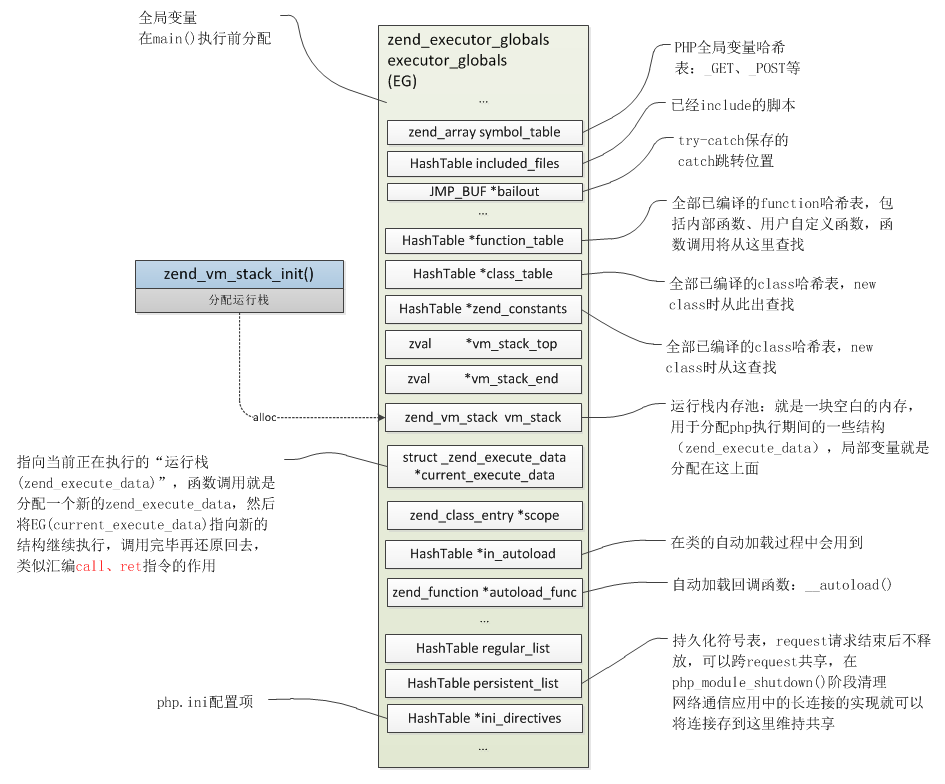
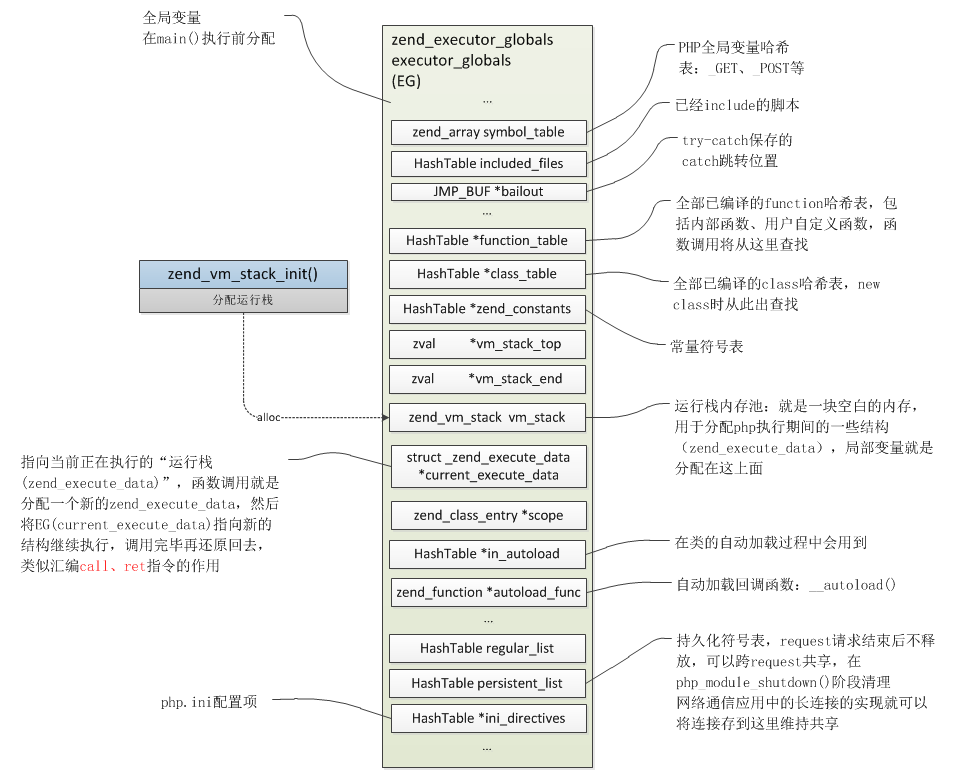
*更新原创

diff --git a/7/func.md b/7/func.md
@@ -67,7 +67,7 @@ const zend_function_entry mytest_functions[] = {
 #define ZEND_FENTRY(zend_name, name, arg_info, flags)   { #zend_name, name, arg_info, (uint32_t) (sizeof(arg_info)/sizeof(struct _zend_internal_arg_info)-1), flags },
 #define ZEND_FN(name) zif_##name
 ```
-最后将`zend_module_entry->functions`设置为`timeout_functions`即可：
+最后将`zend_module_entry->functions`设置为`mytest_functions`即可：
 ```c
 zend_module_entry mytest_module_entry = {
     STANDARD_MODULE_HEADER,
@@ -123,7 +123,7 @@ PHP_FUNCTION(my_func_1)
 
 ![](../img/internal_func_param.png)
 
-注意：解析时除了整形、浮点型、布尔型是直接硬拷贝value外，其它解析到的变量只能是指针，arr为zend_execute_data上param_1的地址，即：`zval *arr = &param_1`，所以图中arr、param_1之间用的不是箭头指向，也就是说参数始终存储在zend_execute_data上，解析获取的是这些参数的地址。`zend_parse_parameters()`调用了`zend_parse_va_args()`进行处理，简单看下解析过程：
+注意：解析时除了整形、浮点型、布尔型是直接硬拷贝value外，其它解析到的变量只能是指针，arr为zend_execute_data上param_1的地址，即：`zval *arr = &param_1`，也就是说参数始终存储在zend_execute_data上，解析获取的是这些参数的地址。`zend_parse_parameters()`调用了`zend_parse_va_args()`进行处理，简单看下解析过程：
 ```c
 //va就是定义的要解析到的各个变量的地址
 static int zend_parse_va_args(int num_args, const char *type_spec, va_list *va, int flags)
@@ -229,7 +229,7 @@ static zend_always_inline int zend_parse_arg_long(zval *arg, zend_long *dest, ze
     return 1;
 }
 ```
-> __Note:__ "l"与"L"的区别在于，当传参不是整形且转为整形后超过了整形的大小范围时，"L"将值调整为整形的最大或最小值，而"l"将报错，比如传的参数是字符串"9223372036854775808"，转整形后超过了unsigned int64的最大值：0xFFFFFFFFFFFFFFFF，"L"将解析为0xFFFFFFFFFFFFFFFF。
+> __Note:__ "l"与"L"的区别在于，当传参不是整形且转为整形后超过了整形的大小范围时，"L"将值调整为整形的最大或最小值，而"l"将报错，比如传的参数是字符串"9223372036854775808"(0x7FFFFFFFFFFFFFFF + 1)，转整形后超过了有符号int64的最大值：0x7FFFFFFFFFFFFFFF，所以如果是"L"将解析为0x7FFFFFFFFFFFFFFF。
 
 #### 7.6.2.2 布尔型：b
 通过"b"标识符表示将传入的参数解析为布尔型，解析到的变量必须是zend_bool：
@@ -355,7 +355,7 @@ callable指函数或成员方法，如果参数是函数名称字符串、array(
 zend_fcall_info         callable; //注意，这两个结构不能是指针
 zend_fcall_info_cache   call_cache;
 
-if(zend_parse_parameters(
+if(zend_parse_parameters(ZEND_NUM_ARGS(), "f", &callable, &call_cache) == FAILURE){
     RETURN_FALSE;
 }
 ```
@@ -376,8 +376,25 @@ my_func_1(array($object, 'method'));
 
 #### 7.6.2.11 其它标识符
 除了上面介绍的这些解析符号以外，还有几个有特殊用法的标识符："|"、"+"、"*"，它们并不是用来表示某种数据类型的。
-* __|：__ 表示此后的参数为可选参数，可以不传，比如解析规则为："al|b"，则可以传2个或3个参数，如果是："alb"，则必须传3个，否则将报错；
-* __+/*：__ 用于可变参数，注意这里与PHP函数...的用法不太一样，PHP中可以把函数最后一个参数前加...，表示调用时可以传多个参数，这些参数都会插入...参数的数组中，"*/+"也表示这个参数是可变的，但内核中只能接收一个值，即使传了多个后面那些也解析不到，"*"、"+"的区别在于"*"表示可以不传可变参数，而"+"表示可变参数至少有一个。
+* __|：__ 表示此后的参数为可选参数，可以不传，比如解析规则为："al|b"，则可以传2个或3个参数，如果是："alb"，则必须传3个，否则将报错
+* __+、* ：__ 用于可变参数，`+、*`的区别在于 * 表示可以不传可变参数，而 + 表示可变参数至少有一个。可变参数将被解析到zval数组，可以通过一个整形参数，用于获取具体的数量，例如：
+```c
+PHP_FUNCTION(my_func_1)
+{
+    zval *args;
+    int argc;
+    
+    if (zend_parse_parameters(ZEND_NUM_ARGS(), "+", &args, &argc) == FAILURE) {
+        return;
+    } 
+    //...
+}
+```
+argc获取的就是可变参数的数量，args为参数数组，指向第一个参数，可以通过args[i]获取其它参数，比如这样传参：
+```php
+my_func_1(array(), 1, false, "ddd");
+```
+那么传入的4个参数就可以在解析后通过args[0]、args[1]、args[2]、args[3]获取。
 
 ### 7.6.3 引用传参
 上一节介绍了如何在内部函数中解析参数，这里还有一种情况没有讲到，那就是引用传参：
@@ -497,7 +514,7 @@ echo $a;
 
 ### 7.6.4 函数返回值
 调用内部函数时其返回值指针作为参数传入，这个参数为`zval *return_value`，如果函数有返回值直接设置此指针即可，需要特别注意的是设置返回值时需要增加其引用计数，举个例子来看：
-    ```c
+```c
 PHP_FUNCTION(my_func_1)
 {
     zval    *arr;
@@ -510,8 +527,6 @@ PHP_FUNCTION(my_func_1)
     Z_ADDREF_P(arr);
 
     //设置返回值为数组：
-    //return_value->u1.type = IS_ARRAY; 
-    //return_value->value->arr = arr->value->arr;
     ZVAL_ARR(return_value, Z_ARR_P(arr));
 } 
 ```

diff --git a/8/namespace.md b/8/namespace.md
@@ -259,9 +259,9 @@ typedef struct _zend_file_context {
 ```
 简单总结下use的几种不同用法：
 * __a.导入命名空间:__ 导入的名称保存在FC(imports)中，编译使用的语句时搜索此符号表进行补全
-* __b.导入类:__ 导入的名称保存在FC(imports)中，与a不同的时如果不会根据"\"切割后的最后一节检索，而是直接使用类名查找
+* __b.导入类:__ 导入的名称保存在FC(imports)中，与a不同的是不会根据"\"切割后的最后一节检索，而是直接使用类名查找
 * __c.导入函数:__ 通过`use function`导入到FC(imports_function)，补全时先查找FC(imports_function)，如果没有找到则继续按照a的情况处理
-* __d.导入常量:__ 通过`use const`导入到FC(imports_const)，不全是先查找FC(imports_const)，如果没有找到则继续按照a的情况处理
+* __d.导入常量:__ 通过`use const`导入到FC(imports_const)，补全时先查找FC(imports_const)，如果没有找到则继续按照a的情况处理
 
 ```php
 use aa\bb;                  //导入namespace
@@ -427,7 +427,7 @@ zend_string *zend_resolve_non_class_name(
     return zend_prefix_with_ns(name);
 }
 ```
-可以看到，函数与常量的的补全逻辑只是优先用原始名称去FC(imports_function)或FC(imports_const)查找，如果没有找到再去FC(imports)中匹配。如果我们这样导入了一个函数：`use aa\bb\my_func;`，编译`my_func()`会在FC(imports_function)中根据"my_func"找到"aa\bb\my_func"，从而使用完整的这个名称。
+可以看到，函数与常量的的补全逻辑只是优先用原始名称去FC(imports_function)或FC(imports_const)查找，如果没有找到再去FC(imports)中匹配。如果我们这样导入了一个函数：`use function aa\bb\my_func;`，编译`my_func()`会在FC(imports_function)中根据"my_func"找到"aa\bb\my_func"，从而使用完整的这个名称。
 
 ### 8.3.3 动态用法
 前面介绍的这些命名空间的使用都是名称为CONST类型的情况，所有的处理都是在编译环节完成的，PHP是动态语言，能否动态使用命名空间呢？举个例子：

diff --git a/README.md b/README.md
@@ -1,14 +1,19 @@
-# 非原创
-#转自 https://github.com/pangudashu/php7-internal
-
 # PHP7内核剖析
 ````
+原创内容，转载请注明出处~
+
 代码版本：php-7.0.12
 ````
 ## 反馈
 [交流&吐槽](https://github.com/pangudashu/php7-internal/issues/3)  [错误反馈](https://github.com/pangudashu/php7-internal/issues/2)
 
-![](img/my_wx2.png)
+## 纸质版
+<div align="center">
+    <img src="img/book.jpg" height="280" >
+</div>
+
+[京东](https://item.jd.com/12267210.html)
+[当当](http://product.dangdang.com/25185400.html)
 
 ## 目录：
 * 第1章 PHP基本架构
@@ -38,6 +43,7 @@
       * <a href="3/zend_executor.md#331-数据结构">3.3.1 基本结构</a>
       * <a href="3/zend_executor.md#332-执行流程">3.3.2 执行流程</a>
       * <a href="3/zend_executor.md#333-函数的执行流程">3.3.3 函数的执行流程</a>
+      * [3.3.4 全局execute_data和opline](3/zend_global_register.md)
    * 3.4 面向对象实现
       * [3.4.1 类](3/zend_class.md)
       * [3.4.2 对象](3/zend_object.md)
@@ -46,6 +52,10 @@
       * [3.4.5 魔术方法](3/zend_magic_method.md)
       * [3.4.6 类的自动加载](3/zend_autoload.md)
    * [3.5 运行时缓存](3/zend_runtime_cache.md)
+   * 3.6 Opcache
+      * 3.6.1 opcode缓存
+      * 3.6.2 opcode优化
+      * 3.6.3 JIT
 * 第4章 PHP基础语法实现
    * [4.1 类型转换](4/type.md)
    * [4.2 选择结构](4/if.md)
@@ -86,11 +96,11 @@
       * [7.7.6 数组操作](7/var.md)
    * [7.8 常量](7/constant.md)
    * 7.9 面向对象
-      7.9.1 内部类注册
-      7.9.2 定义成员属性
-      7.9.3 定义成员方法
-      7.9.4 定义常量
-      7.9.5 类的实例化
+      * 7.9.1 内部类注册
+      * 7.9.2 定义成员属性
+      * 7.9.3 定义成员方法
+      * 7.9.4 定义常量
+      * 7.9.5 类的实例化
    * 7.10 资源类型
    * 7.11 经典扩展解析
       * 7.8.1 Yaf
@@ -107,4 +117,5 @@
  
 ## 附录
    * [附录1：break/continue按标签中断语法实现](try/break.md)
+   * 附录2：defer推迟函数调用语法的实现
 

diff --git a/4/break.md b/4/break.md
@@ -19,7 +19,15 @@ typedef struct _zend_brk_cont_element {
 ```
 cont记录的是当前循环判断条件opcode起始位置，brk记录的是当前循环结束的位置，parent记录的是父层循环`zend_brk_cont_element`结构的存储位置，也就是说多层嵌套循环会生成一个`zend_brk_cont_element`的链表，每层循环编译结束时更新自己的`zend_brk_cont_element`结构，所以break、continue的处理过程实际就是根据跳出的层级索引到那一层的`zend_brk_cont_element`结构，然后得到它的cont、brk进行相应的opcode跳转。
 
-各循环的`zend_brk_cont_element`结构保存在`zend_op_array->brk_cont_array`数组中，实际这个数组在编译前就已经分配好了，编译各循环时依次申请一个`zend_brk_cont_element`，`zend_op_array->last_brk_cont`记录此数组第一个可用位置，每申请一个元素last_brk_cont就相应的增加1，parent记录的就是父层循环在`zend_op_array->brk_cont_array`中的位置。
+各循环的`zend_brk_cont_element`结构保存在`zend_op_array->brk_cont_array`数组中，编译各循环时依次申请一个`zend_brk_cont_element`，`zend_op_array->last_brk_cont`记录此数组第一个可用位置，每申请一个元素last_brk_cont就相应的增加1，然后将数组扩容，parent记录的就是父层循环结构在该数组中的存储位置。
+```c
+zend_brk_cont_element *get_next_brk_cont_element(zend_op_array *op_array)
+{
+    op_array->last_brk_cont++;
+    op_array->brk_cont_array = erealloc(op_array->brk_cont_array, sizeof(zend_brk_cont_element)*op_array->last_brk_cont);
+    return &op_array->brk_cont_array[op_array->last_brk_cont-1];
+}
+```
 
 示例：
 ```php

diff --git a/4/loop.md b/4/loop.md
@@ -241,7 +241,7 @@ foreach($arr as $k=>$v){
 
 了解了foreach的实现、运行机制我们再回头看下其编译过程：
 
-* __(1)__ 编译"拷贝"数组/对象操作的opcode：`ZEND_FE_RESET_R`，如果value是引用则是`ZEND_FE_RESET_RW`，执行时如果发现数组或对象属性为空则直接跳出遍历，所以这条opcode还需要知道跳出的位置，这个位置需要编译完foreach以后才能确定；
+* __(1)__ 编译拷贝数组、对象操作的指令：ZEND_FE_RESET_R，如果value是引用则是ZEND_FE_RESET_RW。执行时如果发现遍历的变量不是数组、对象，则抛出一个warning，然后跳出循环，所以这条指令还需要知道跳出的位置，这个位置需要编译完foreach以后才能确定；
 * __(2)__ 编译fetch数组/对象当前单元key、value的opcode：`ZEND_FE_FETCH_R`，如果是引用则是`ZEND_FE_FETCH_RW`，此opcode还需要知道当遍历已经到达数组末尾时跳出遍历的位置，与步骤(1)的opcode相同,另外还有一个关键操作，前面已经说过遍历的key、value实际就是普通的局部变量，它们的内存存储位置正是在这一步分配确定的，分配过程与普通局部变量的过程完全相同，如果value不是一个CV变量(比如：foreach($arr as $v["xx"]){...})则还会编译其它操作的opcode；
 * __(3)__ 如果foreach定义了key则编译一条赋值opcode，此操作是对key进行赋值；
 * __(4)__ 编译循环体statement；

diff --git a/2/global_var.md b/2/global_var.md
@@ -1,7 +1,5 @@
 ## 2.4 全局变量
-PHP中在函数、类之外直接定义的变量可以在函数、类成员方法中通过global关键词引入使用，这些变量称为：全局变量。
-
-这些直接在PHP中定义的变量(包括include、require文件中的)相对于函数、类方法而言它们是全局变量，但是对自身执行域zend_execute_data而言它们是普通的局部变量，自身执行时它们与普通变量的读写方式完全相同。
+PHP中把定义在函数、类之外的变量称之为全局变量，也就是定义在主脚本中的变量，这些变量可以在函数、成员方法中通过global关键字引入使用。
 
 ```php
 function test() {
@@ -64,7 +62,7 @@ global $id; // 相当于：$id = & EG(symbol_table)["id"];
 ![](../img/zend_global_ref.png)
 
 ### 2.4.3 超全局变量
-全部变量除了通过global引入外还有一类特殊的类型，它们不需要使用global引入而可以直接使用，这些全局变量称为：超全局变量。
+全局变量除了通过global引入外还有一类特殊的类型，它们不需要使用global引入而可以直接使用，这些全局变量称为：超全局变量。
 
 超全局变量实际是PHP内核定义的一些全局变量：$GLOBALS、$_SERVER、$_REQUEST、$_POST、$_GET、$_FILES、$_ENV、$_COOKIE、$_SESSION、argv、argc。
 

diff --git a/7/implement.md b/7/implement.md
@@ -1,5 +1,5 @@
 ## 7.2 扩展的实现原理
-PHP中扩展通过`zend_module_entry`这个结构来表示，此结构定义了扩展的全部信息：扩展名、扩展版本、扩展提供的函数列表以及PHP四个执行阶段的hook函数等，每一个扩展都需要定义一个此结构的变量，而且这个变量的名称格式必须是：`{mudule_name}_module_entry`，内核正是通过这个结构获取到扩展提供的功能的。
+PHP中扩展通过`zend_module_entry`这个结构来表示，此结构定义了扩展的全部信息：扩展名、扩展版本、扩展提供的函数列表以及PHP四个执行阶段的hook函数等，每一个扩展都需要定义一个此结构的变量，而且这个变量的名称格式必须是：`{module_name}_module_entry`，内核正是通过这个结构获取到扩展提供的功能的。
 
 扩展可以在编译PHP时一起编译(静态编译)，也可以单独编译为动态库，动态库需要加入到php.ini配置中去，然后在`php_module_startup()`阶段把这些动态库加载到PHP中：
 ```c

diff --git a/3/zend_class.md b/3/zend_class.md
@@ -416,7 +416,7 @@ void zend_compile_class_const_decl(zend_ast *ast)
     zend_class_entry *ce = CG(active_class_entry);
     uint32_t i;
 
-    for (i = 0; i < list->children; ++i) { //不清楚这个地方为什么要用list，试了几个例子这个节点都只有一个child，即for只循环一次
+    for (i = 0; i < list->children; ++i) { //const声明了多个常量，遍历编译每个子节点
         zend_ast *const_ast = list->child[i];
         zend_ast *name_ast = const_ast->child[0]; //常量名节点
         zend_ast *value_ast = const_ast->child[1];//常量值节点
@@ -446,7 +446,6 @@ void zend_compile_prop_decl(zend_ast *ast)
     zend_class_entry *ce = CG(active_class_entry);
     uint32_t i, children = list->children;
 
-    //也不清楚这里为啥用循环，测试的情况child只有一个
     for (i = 0; i < children; ++i) {
         zend_ast *prop_ast = list->child[i]; //这个节点类型为：ZEND_AST_PROP_ELEM
         zend_ast *name_ast = prop_ast->child[0]; //属性名节点

diff --git a/2/zval.md b/2/zval.md
@@ -278,7 +278,7 @@ $b[] = 3;
 
 ![zval_sep](../img/zval_sep.png)
 
-不是所有类型都可以copy的，比如对象、资源，实时上只有string、array两种支持，与引用计数相同，也是通过`zval.u1.type_flag`标识value是否可复制的：
+不是所有类型都可以copy的，比如对象、资源，事实上只有string、array两种支持，与引用计数相同，也是通过`zval.u1.type_flag`标识value是否可复制的：
 ```c
 #define IS_TYPE_COPYABLE         (1<<4)
 ```

diff --git a/2/zend_constant.md b/2/zend_constant.md
@@ -8,7 +8,7 @@ PHP中的常量通过`define()`函数定义：
 define('CONST_VAR_1', 1234);
 ```
 ### 2.5.1 常量的存储
-在内核中常量存储在`EG(zend_constant)`哈希表中，访问时也是根据常量名直接到哈希表中查找，其实现比较简单。
+在内核中常量存储在`EG(zend_constants)`哈希表中，访问时也是根据常量名直接到哈希表中查找，其实现比较简单。
 
 常量的数据结构：
 ```c

diff --git a/2/zend_ht.md b/2/zend_ht.md
@@ -61,6 +61,8 @@ unset($arr["c"]);
 
 ![](../img/zend_hash_1.png)
 
+> 图中Bucket的zval.u2.next默认值应该为-1，不是0
+
 ### 2.2.2 映射函数
 映射函数(即：散列函数)是散列表的关键部分，它将key与value建立映射关系，一般映射函数可以根据key的哈希值与Bucket数组大小取模得到，即`key->h % ht->nTableSize`，但是PHP却不是这么做的：
 ```c

diff --git a/3/function_implement.md b/3/function_implement.md
@@ -287,7 +287,7 @@ $greet = function($name)
 $greet('World');
 $greet('PHP');
 ```
-这里提函数函数只是想说明编译函数时那个use的用法:
+这里提匿名函数只是想说明编译函数时那个use的用法:
 
 __匿名函数可以从父作用域中继承变量。 任何此类变量都应该用 use 语言结构传递进去。__
 
